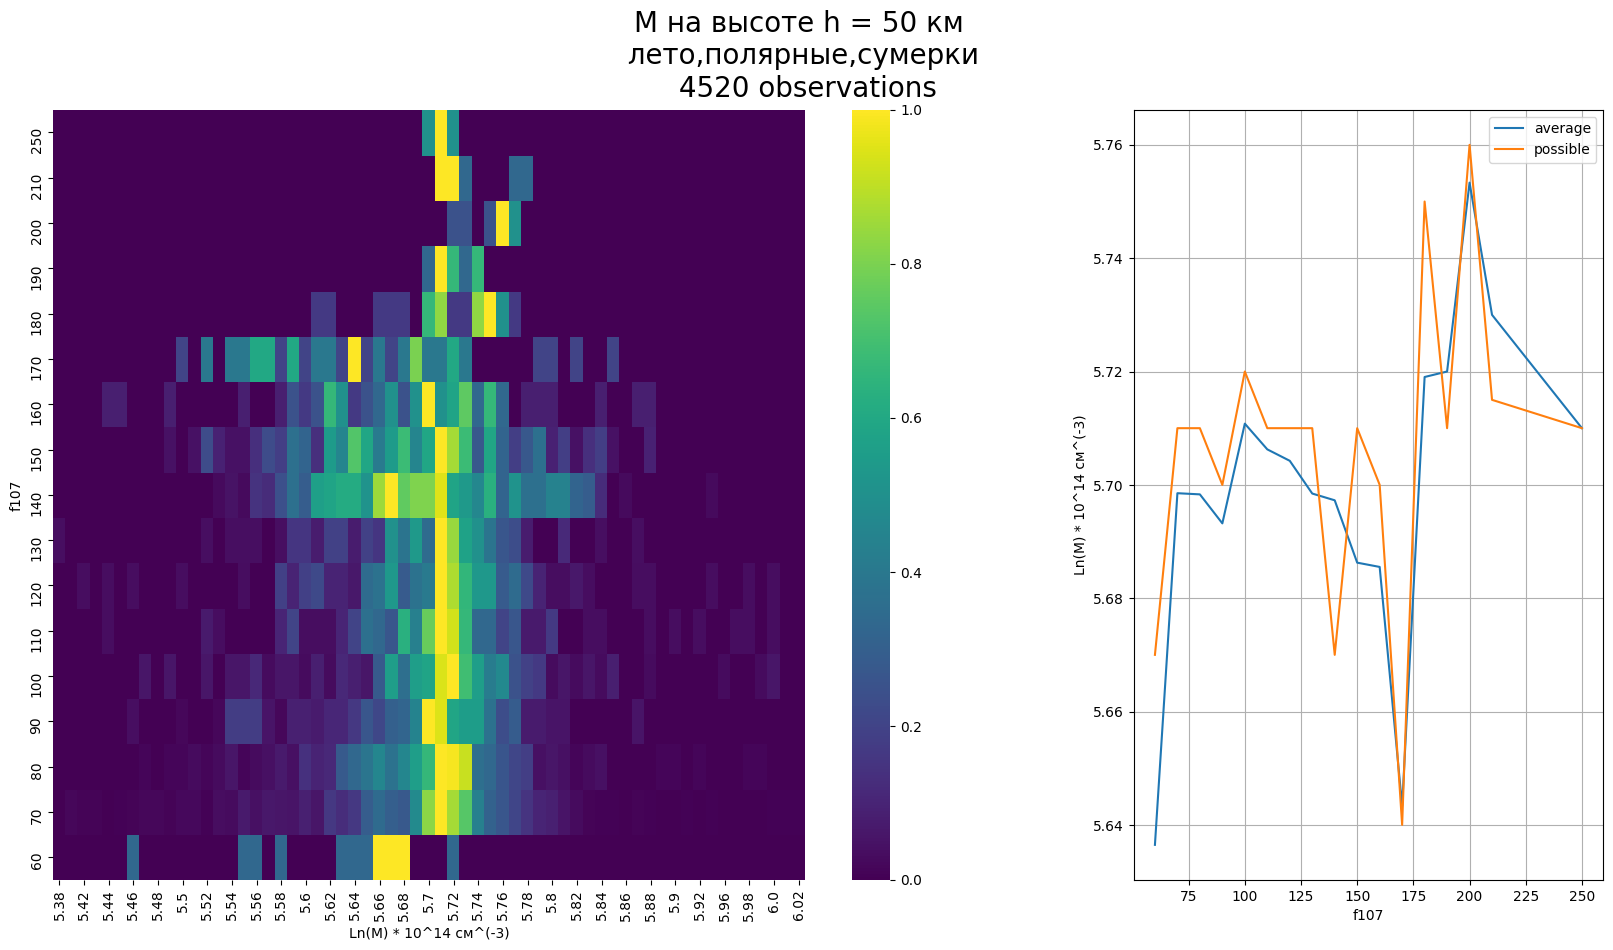
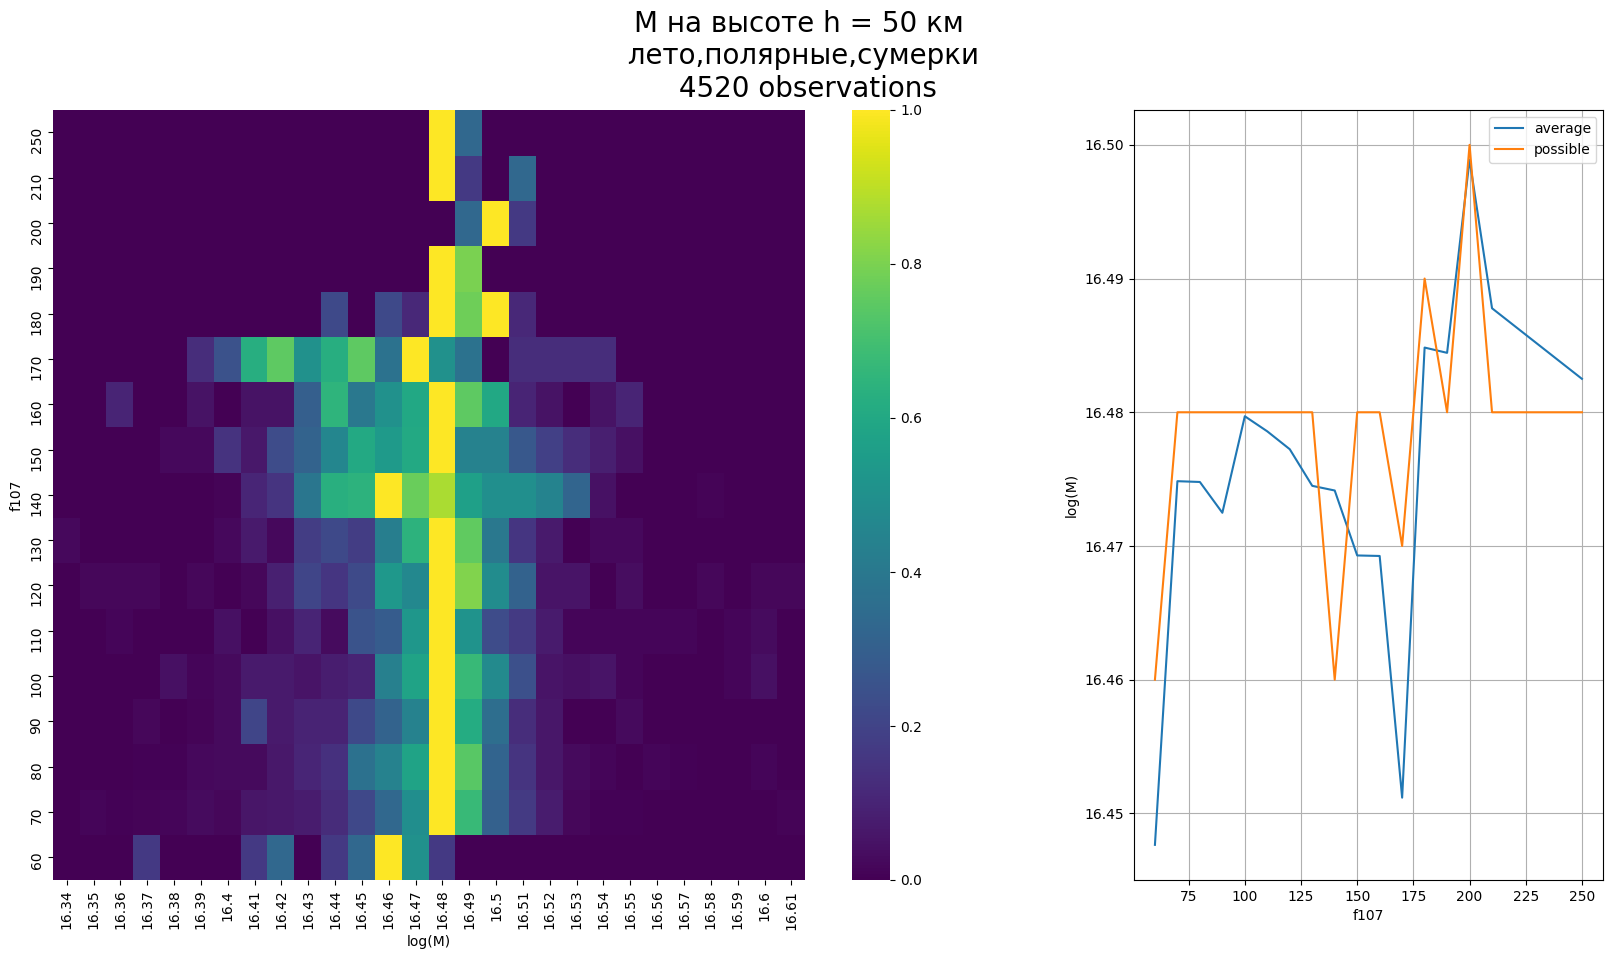
натуральный логарифм изменен на десятичный

diff --git a/README.md b/README.md
@@ -141,7 +141,7 @@ $ python3 python_code/create_data_hist.py --param F107
 ![](images/data_SZA.png)
 ![](images/data_F107.png)
 ## Распределение плотностей вероятностей T и M от условий
-В этом разделе будем строить распределения плотности вероятности T и M и графики зависимостей
+В этом разделе будем строить распределения плотности вероятности T и десятичного логарифма M и графики зависимостей
 среднего и наиболее вероятного значения этих параметров от высоты h при различных гелиофизических условиях,
 а так же графики зависимостей этих величин от гелиофизических условий.
 
@@ -157,7 +157,7 @@ $ python3 python_code/create_data_hist.py --param F107
 ![](images/by_h/T-лето-экваториальные-день-низкаяСА.png)
 
 Дисперсия значений при высокой СА больше, чем при низкой. Возможно, это связано с меньшим количеством наблюдений.
-Тем не менее, наиболее вероятные значения близки к средним.
+Тем не менее, наиболее вероятные значения близки к средним (в переделах 1.25%).
 
 Сравним еще распределения летним днем в средних широтах:
 
@@ -165,7 +165,7 @@ $ python3 python_code/create_data_hist.py --param F107
 ![](images/by_h/T-лето-средние-день-низкаяСА.png)
 
 Снова разброс значений при высокой СА больше, чем при низкой, однако, в данном случае средние величины сильнее отличаются
-от вероятных, чем в предыдущем.
+от вероятных, чем в предыдущем (в пределах 2%).
 
 Построим зависимость распределения температуры нейтралов от солнечной активности
 (например, на высоте h= 50 км):
@@ -173,7 +173,8 @@ $ python3 python_code/create_data_hist.py --param F107
 ![](images/by_f107/T50-лето-средние-день.png)
 
 Для обоих регионов наблюдается минимум при f107 около 140, но в целом четкой зависимости 
-температуры от солнечной активности не наблюдается.
+температуры от солнечной активности не наблюдается. Значения колеблются в пределах 6%.
+Для низкой солнечной активности значения колеблются в пределах 1,2%.
 
 
 Теперь построим в этих же условиях распределение плотности вероятности концентрации нейтралов:
@@ -185,7 +186,7 @@ $ python3 python_code/create_data_hist.py --param F107
 ![](images/by_h/M-лето-средние-день-низкаяСА.png)
 
 При высокой СА дисперсия значений больше, чем при низкой. При этом, во всех случаях наиболее вероятные
-значения практически совпадают со средними.
+значения практически совпадают со средними (отклонение десятичного логарифма менее 1%).
 
 Построим зависимость распределения концентрации нейтралов
 от солнечной активности:
